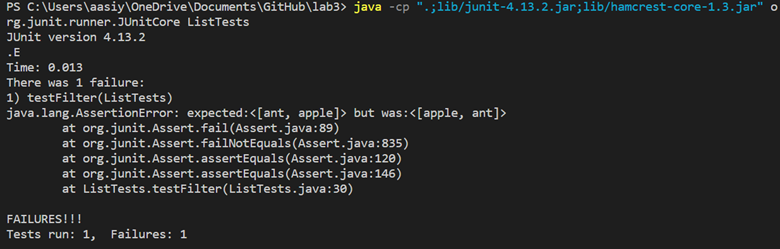
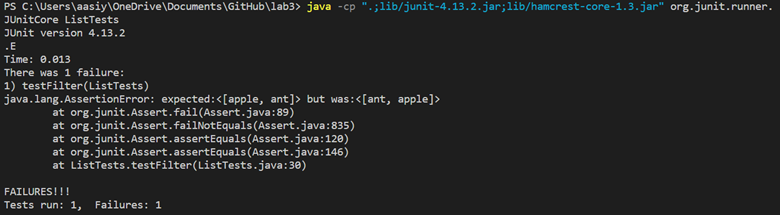
fixed part 2 of report 2

Changed region(s): [[0.0, 0.0, 1.0, 0.8093], [0.0, 0.8372, 0.2462, 0.9767]]

diff --git a/week 3/lab-report-2-week-3.md b/week 3/lab-report-2-week-3.md
@@ -100,8 +100,8 @@ For ArrayExamples, this is the test which failed:
 ```
 ![Image](4.png)
 
-* The failure-inducing input for ReverseInPlace was {1, 2, 3}
-* The symptom was that instead of giving {3, 2, 1}, it gave {3, 2, 3}
+* The failure-inducing input for ReverseInPlace was the array returned when the array {1, 2, 3} was passed to reverseInPlace
+* The symptom was that instead of returning {3, 2, 1}, it returned {3, 2, 3}
 * I fixed it by adding a temporary array and assigning it to arr once things were reversed.
 ![Image](5.png)
 * The bug was that the contents of the original array were being changed before everything could be reversed. So values were “disappearing” and then the wrong value was being copied.
@@ -121,11 +121,11 @@ For ListExamples, this is the test which failed:
         list2.add("apple");
         list2.add("ant");
 
-        assertEquals(ListExamples.filter(list1, aStart), list2);
+        assertEquals(list2, ListExamples.filter(list1, aStart));
        
     }
 ```
-* The failure-inducing input was the list [apple, ball, cat, ant] and a startsWithA object. 
+* The failure-inducing input was the filtered list returned when filter was called with the arguments of this list: [apple, ball, cat, ant] and a startsWithA object. 
 * The symptom was that it should have returned [apple, ant], but instead returned it in a reversed order as [ant, apple].
 
 ![Image](6.png)
